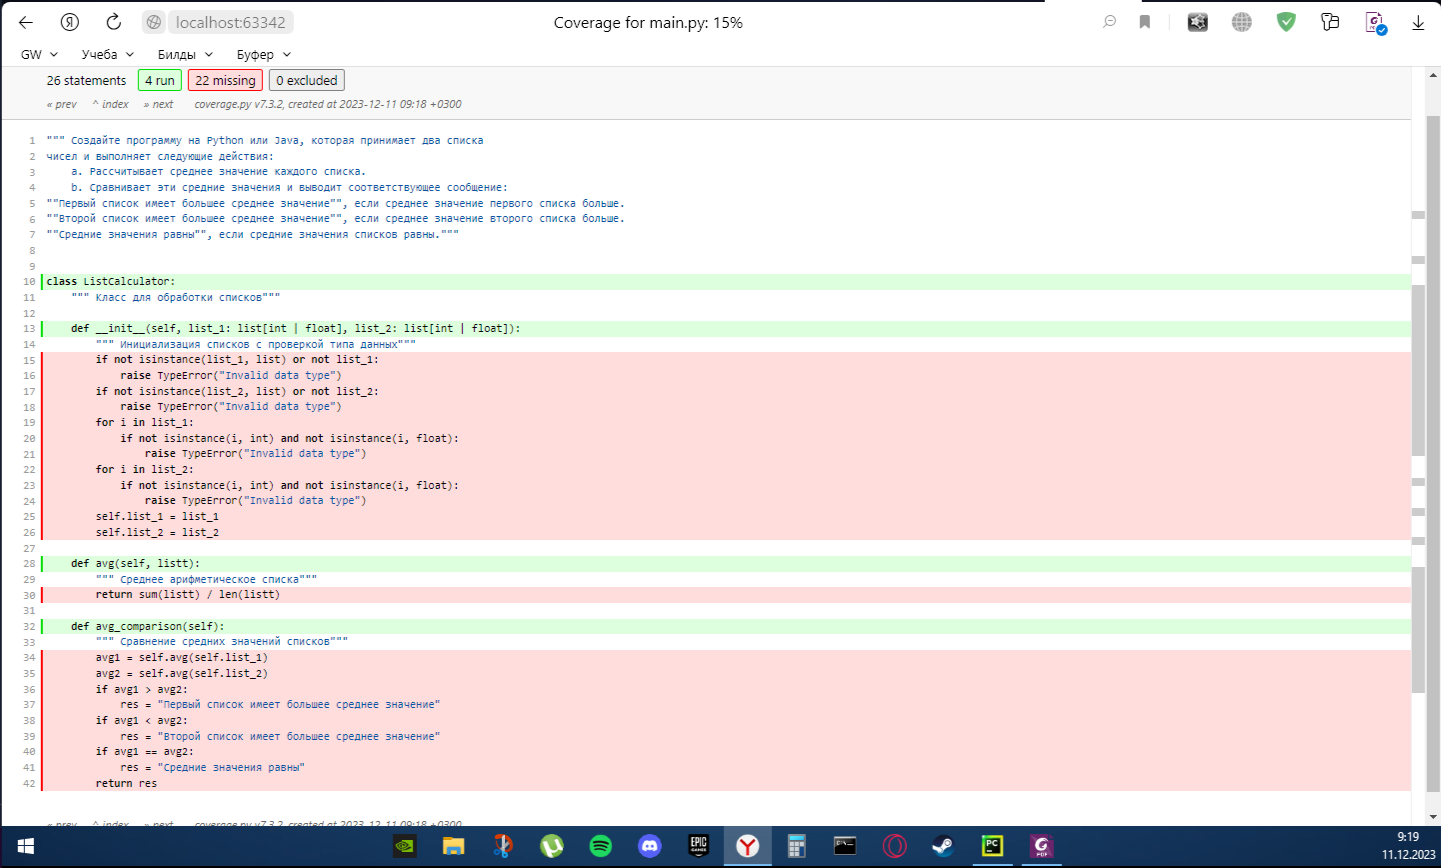
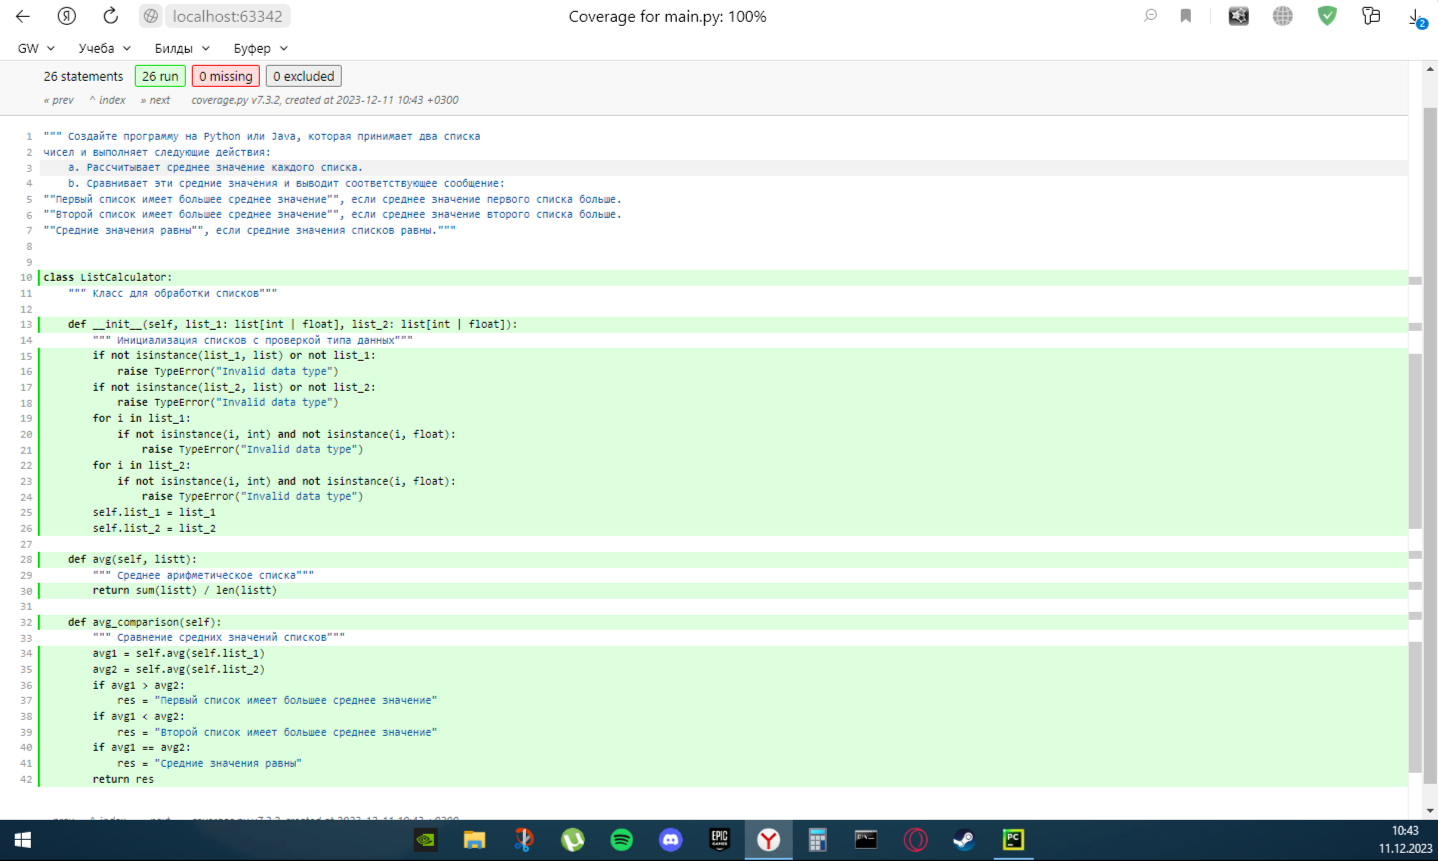
HW6 done

diff --git a/hw6/tests.py b/hw6/tests.py
@@ -42,6 +42,20 @@ class TestListCalculator:
         with pytest.raises(TypeError):
             ListCalculator(list_1, list_2)
 
+    def test_init_invalid_type_list_3(self):
+        """ Инициализация списков с проверкой типа данных """
+        list_1 = ["not an int", 2, 3]
+        list_2 = [1, 2, 3]
+        with pytest.raises(TypeError):
+            ListCalculator(list_1, list_2)
+
+    def test_init_invalid_type_list_4(self):
+        """ Инициализация списков с проверкой типа данных """
+        list_1 = [1, 2, 3]
+        list_2 = ["not an int", 2, 3]
+        with pytest.raises(TypeError):
+            ListCalculator(list_1, list_2)
+
     def test_avg(self):
         """ Среднее арифметическое списка """
         list_1 = [1, 2, 3, 4, 5]
@@ -73,3 +87,7 @@ class TestListCalculator:
         calc = ListCalculator(list_1, list_2)
         result = calc.avg_comparison()
         assert result == "Средние значения равны"
+
+
+if __name__ == "__main__":
+    pytest.main()
